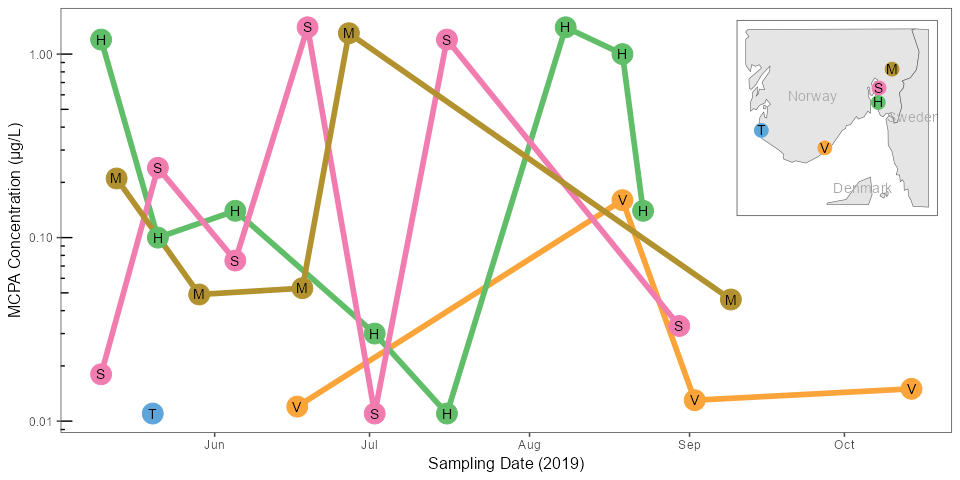
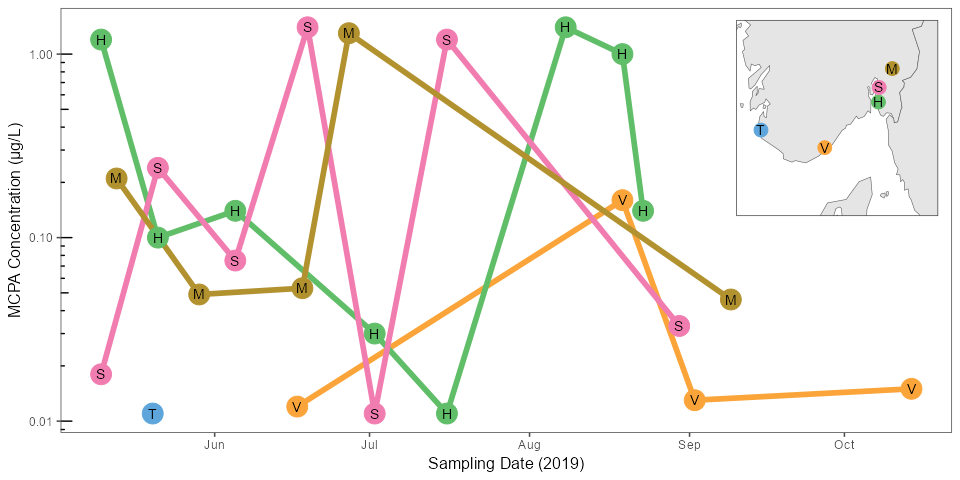
Commit of final draft.

diff --git a/README.md b/README.md
@@ -57,12 +57,8 @@ object for compatibility with `sf`’s GIS functions.
 <summary>Show code</summary>
 
 ``` r
-# Get a map of Europe and crop it to Norway
-gisco_Europe <- gisco_get_countries(epsg = 4326, region = "Europe") |> 
-      st_crop(xmin = 5, xmax = 13, ymin = 57, ymax = 61) 
-
-gisco_Europe_zoom <- gisco_get_countries(epsg = 4326, region = "Europe") |> 
-      st_crop(xmin = 5, xmax = 12, ymin = 50, ymax = 70) 
+# Get a map of Europe
+gisco_Europe <- gisco_get_countries(epsg = 4326, region = "Europe") 
 
 sites_sf <- st_as_sf(sites, coords = c("LONGITUDE", "LATITUDE"), crs = 4326) |> 
   select(-COORDINATE_SYSTEM, -SITE_CODE)
@@ -90,36 +86,12 @@ plot_a0 <- ggplot(gisco_Europe) +
       geom_sf(data = sites_sf, aes(size = 6, colour = SITE_NAME)) +
   geom_sf_text(data = sites_sf, aes(label = c("T", "V", "H", "S", "M"))) +
   theme(legend.position = "none", axis.title = element_blank(), axis.ticks = element_blank(), axis.text = element_blank()) +
-      scale_color_few()
+      scale_color_few() +
+  coord_sf(xlim = c(5, 13), ylim = c(57, 61))
 
-# Spatial Variation
-
-plot_a1 <- mcpa_exposure %>% 
-  ggplot(mapping = aes(x = SITE_NAME, y = MEASURED_VALUE, colour = SITE_NAME)) +
-  geom_boxplot() +
-    scale_y_log10() +
-  scale_color_few() +
-  labs(x = "Sampling Site",
-       y = "Measured Concentration (μg/L)",
-       colour = "Sampling Site",
-       shape = "Sampling Site")
-
-# Temporal Variation
-
-plot_a2 <- mcpa_exposure %>% 
-  ggplot(mapping = aes(x = SAMPLE_DATE, y = MEASURED_VALUE, group = floor_date(SAMPLE_DATE, unit = "months"))) +
-  geom_boxplot() +
-    scale_y_log10() +
-  labs(x = "Sampling Date",
-       y = "Measured Concentration (μg/L)",
-       colour = "Sampling Site",
-       shape = "Sampling Site")
-
-# Spatio-Temporal Variation
-
-plot_a3 <- mcpa_exposure %>%
+plot_a1 <- mcpa_exposure %>%
   ggplot(mapping = aes(x = SAMPLE_DATE, y = MEASURED_VALUE, colour = SITE_NAME)) +
-  geom_line(size = 2) +
+  geom_line(size = 1.2) +
   geom_point(size = 7) +
   geom_text(aes(label = SITE_NAME |> substr(start = 1, stop = 1)), colour = "black") +
   scale_y_log10() +
@@ -133,31 +105,27 @@ plot_a3 <- mcpa_exposure %>%
   theme(legend.position = "none") +
    annotation_logticks(sides = "l")
 
-# task_a_plot <- plot_grid(plot_a3, plot_a0,
-#           ncol = 2, rel_widths = c(3, 1))
-```
-
-</details>
-<details class="code-fold">
-<summary>Show code</summary>
-
-``` r
-task_a_plot <- ggdraw(plot = plot_a3) +
+task_a_plot <- ggdraw(plot = plot_a1) +
   draw_plot(plot_a0, x = 0.77, y = 0.6, width = 0.2, height = 0.3, scale = 1.5)
 task_a_plot
 ```
 
 </details>
 
-![](README_files/figure-commonmark/task_a_plot-1.png)
+![](README_files/figure-commonmark/task_a-1.png)
+
+Figure 1: Line graph/scatter plot of measured concentrations of
+2-methyl-4-chlorophenoxyacetic acid (MCPA) in 5 freshwater sampling
+sites in Norway, between May 5th and October 14th, 2019. Each point
+represents a single sample. Inset map shows locations of sampling sites
+(T)imebekken, (V)asshaglona, (H)eiabekken, (S)kuterudbekken, and
+(M)ørdrebekken.
 
 ## Task B: Predict tissue concentrations of chemicals in fish
 
-Any outliers?
-
-How to calculate some of these :(?
-
-Also how to make nice tables in quarto?
+Summary statistics (mean, standard deviation, maximum, minimum, and
+5th/95th percentiles) were calculated for each combination of site and
+stressor across the sampling period.
 
 <details class="code-fold">
 <summary>Show code</summary>
@@ -189,13 +157,12 @@ all_data %>%
 
 # Make a table using knitr
 task_b_table <- knitr::kable(all_data_summary, digits = 2,
-             col.names = c("Site", "Stressor", "n", "Mean ± SD", "Min.", "Max.", "5th Percentile", "95th Percentile"),
-              caption = "Table of mean, standard deviation, maximum, minimum and percentile values of measured concentrations of 48 chemical stressors across 6 freshwater sampling sites in Norway, May 6th to October 28th 2019. *: <i>n</i> too small to calculate standard deviation. All values in μg/L, rounded to 2 d.p.")
+             col.names = c("Site", "Stressor", "n", "Mean ± SD", "Min.", "Max.", "5th Percentile", "95th Percentile"))
 ```
 
 </details>
 <details>
-<summary>Show Table 1: Summary Statistics of Stressor Concentrations</summary>
+<summary>Show Table 1: Summary statistics of measured stressor concentrations in water</summary>
 
 | Site           | Stressor                                               |   n | Mean ± SD   | Min. | Max. | 5th Percentile | 95th Percentile |
 |:---------------|:-------------------------------------------------------|----:|:------------|-----:|-----:|---------------:|----------------:|
@@ -268,13 +235,26 @@ task_b_table <- knitr::kable(all_data_summary, digits = 2,
 | Mørdrebekken   | prothioconazole-desthio                                |   4 | 0.03 ± 0.04 | 0.09 | 0.01 |           0.01 |            0.08 |
 | Mørdrebekken   | thiabendazole                                          |   1 | 0.04\*      | 0.04 | 0.04 |           0.04 |            0.04 |
 
-Table of mean, standard deviation, maximum, minimum and percentile
-values of measured concentrations of 48 chemical stressors across 6
-freshwater sampling sites in Norway, May 6th to October 28th 2019. \*:
-<i>n</i> too small to calculate standard deviation. All values in μg/L,
-rounded to 2 d.p.
-
 </details>
+
+Table 1: Table of mean, standard deviation, maximum, minimum and
+percentile values of measured concentrations of 48 chemical stressors
+across 6 freshwater sampling sites in Norway, May 6th to October 28th
+2019. \*: <i>n</i> too small to calculate standard deviation. All values
+in μg/L, rounded to 2 d.p.
+
+Tissue concentrations of stressors in fish were calculated as follows.
+First, the R package `webchem` was used to assign PubChem IDs to the
+stressors based on InChIKeys. These IDs were subsequently used to look
+up LogKOW (a.k.a XLogP) values on PubChem, which were available as
+predicted values for 39 substances, but not for spinosad. These values
+were then used to predict tissue concentrations following the equation:
+
+$$C_f = C_w \times 10^{0.76 \times logP - 0.23}$$
+
+Tissue concentration data is subsequently saved to
+`/data/Cf_summary_table.csv` and displayed below.
+
 <details class="code-fold">
 <summary>Show code</summary>
 
@@ -313,13 +293,14 @@ Cf_summary <- Cf_all_stressors |>
 
 # Make a pretty table using knitr
 Cf_summary_table <- knitr::kable(Cf_summary, digits = 2,
-             col.names = c("Stressor", "Heiabekken", "Mørdrebekken", "Skuterudbekken", "Timebekken", "Vasshaglona"),
-              caption = "Table of mean and standard deviation of measured concentrations of 48 chemical stressors across 6 freshwater sampling sites in Norway, May 6th to October 28th 2019. *: n too small to calculate standard deviation. All values in μg/L.")
+             col.names = c("Stressor", "Heiabekken", "Mørdrebekken", "Skuterudbekken", "Timebekken", "Vasshaglona"))
+
+write_csv(x = Cf_summary, file = "data/Cf_summary_table.csv")
 ```
 
 </details>
 <details>
-<summary>Show Table 2: Cf_summary_table</summary>
+<summary>Show Table 1: Summary statistics of predicted stressor concentrations in fish tissue</summary>
 
 | Stressor                                               | Heiabekken  | Mørdrebekken | Skuterudbekken | Timebekken  | Vasshaglona |
 |:-------------------------------------------------------|:------------|:-------------|:---------------|:------------|:------------|
@@ -364,14 +345,22 @@ Cf_summary_table <- knitr::kable(Cf_summary, digits = 2,
 | pinoxaden                                              | \-          | \-           | \-             | \-          | 0.03\*      |
 | thiabendazole                                          | \-          | \-           | \-             | \-          | 0.04\*      |
 
-Table of mean and standard deviation of measured concentrations of 48
-chemical stressors across 6 freshwater sampling sites in Norway, May 6th
-to October 28th 2019. \*: n too small to calculate standard deviation.
-All values in μg/L.
-
 </details>
 
+Table 2: Table of mean and standard deviation of predicted
+concentrations in fish tissues of 39 chemical stressors across 6
+freshwater sampling sites in Norway, May 6th to October 28th 2019. \*: n
+too small to calculate standard deviation. All values in μg/kg,
+calculated from measured water concentrations and predicted LogKOW,
+following the equation $C_f = C_w \times 10^{0.76 \times logP - 0.23}$.
+
 ## Task C: Visualize the values of Cw and Cf on a map
+
+A purely map-based approach to this task was considered. However, given
+the number of stressors assessed, and the inability (with available
+data) of determining which concentrations were most environmentally
+relevant, it was decided that box plots with an accompanying map of
+sampling sites was a more appropriate approach.
 
 <details class="code-fold">
 <summary>Show code</summary>
@@ -382,67 +371,68 @@ task_c_data <- Cf_all_stressors |>
   left_join(all_stressors, by = "STRESSOR_NAME") |>
   pivot_longer(cols = c(MEASURED_VALUE, FISH_CONC_uGKG), names_to = "Media", values_to = "Stressor_ug") |>
   mutate(Media = case_when(
-    Media == "MEASURED_VALUE" ~ "Water",
-    TRUE ~ "Fish"
-  ) |> factor(levels = c("Water", "Fish"))
+    Media == "MEASURED_VALUE" ~ "Water (μg/L)",
+    TRUE ~ "Fish (μg/kg)"
+  ) |> factor(levels = c("Water (μg/L)", "Fish (μg/kg)"))
   )
 
 task_c_map <-
-  ggplot(gisco_Europe_zoom) +
+  ggplot(data = gisco_Europe) +
   geom_sf() +
   geom_sf(data = sites_sf) +
   geom_sf_text(aes(label = NAME_ENGL), colour = "darkgrey") +
-  geom_sf(data = sites_sf, aes(size = 5, colour = SITE_NAME)) +
+  geom_sf(data = sites_sf, aes(size = 7, colour = SITE_NAME)) +
   geom_sf_text(data = sites_sf, aes(label = c("T", "V", "H", "S", "M"))) +
-  theme(legend.position = "none", axis.title = element_blank(), axis.ticks = element_blank(), axis.text = element_blank(), plot.margin = unit(c(0,0,0,0), "cm")) +
+  theme(legend.position = "none", axis.title = element_blank(), axis.ticks = element_blank(), axis.text = element_blank()) +
+  coord_sf(xlim = c(5, 12), ylim = c(58, 64)) +
       scale_color_few()
 
-task_c_plot_list <- vector("list", 10)
-n <- 0
+task_c_worldmap <- ggplot(data = gisco_countries) +
+  geom_sf() +
+  geom_rect(aes(xmin = 5, xmax = 12, ymin = 58, ymax = 64), color = "red", fill = NA) +
+    coord_sf(expand = FALSE) +
+    theme(axis.text = element_blank(), axis.ticks = element_blank())
 
-
-for (site in sites$SITE_NAME) {
-  for (medium in c("Water", "Fish")) {
-    n <- n + 1
-    temp_data <- task_c_data |> filter(Media == medium)
-    temp_plot <- temp_data |>
-      filter(SITE_NAME == site) |>
-      ggplot(aes(x = Stressor_ug, y = STRESSOR_ACRONYM)) +
-      geom_boxplot() +
-      scale_x_log10() +
-      labs(
-        x = "Measured Concentration (μg/L)",
-        y = "Stressor (Abbreviated)",
-        title = paste0(site, " (", medium, ")")
-      ) +
-      annotation_logticks(sides = "b") +
-      theme(axis.title = element_blank())
-    task_c_plot_list[[n]] <- temp_plot
-  }
-}
-
-#try facets instead
 task_c_boxplots <- ggplot(data = task_c_data, mapping = aes(x = Stressor_ug, y = STRESSOR_ACRONYM, fill = SITE_NAME)) +
       geom_boxplot() +
       scale_x_log10() +
   scale_fill_few() +
       labs(
-        x = "Measured Concentration (μg/L)",
+        x = "Measured Concentration",
         y = "Stressor (Abbreviated)") +
       annotation_logticks(sides = "b") +
-      theme(axis.title = element_blank(),
-            legend.position = "none") +
-  facet_grid(SITE_NAME ~ Media, scales = "free", space = "free", drop = TRUE)
+      theme(legend.position = "none") +
+  facet_grid(SITE_NAME ~ Media, scales = "free", space = "free", drop = TRUE, switch = "y") +
+  theme(plot.margin = unit(c(0, 5, 0, 0), "cm"))
 
-# y.grob <- textGrob("Stressor", 
-#                    gp=gpar(fontface="bold", fontsize=15), rot=90)
-# 
-# x.grob <- textGrob("Concentration (μg/L)", 
-#                    gp=gpar(fontface="bold", fontsize=15))
+task_c_plot <- ggdraw(plot = task_c_boxplots) +
+  draw_plot(task_c_map, x = 0.82, y = 0.715, width = 0.17, height = 0.3, scale = 1) +
+    draw_plot(task_c_worldmap, x = 0.82, y = 0.55, width = 0.17, height = 0.3, scale = 1)
 
-plot_grid(task_c_boxplots, task_c_map, ncol = 2, nrow = 1, rel_width = c(10000, 1))
+task_c_plot
 ```
 
 </details>
 
-![](README_files/figure-commonmark/task_c-1.png)
+![Speed and Stopping Distances of
+Cars](README_files/figure-commonmark/task_c-1.png)
+
+Figure 2: Box plot of concentrations, in water (measured, μg/L) and fish
+tissue (predicted from water and LogKow, μg/kg), for 40 chemical
+stressors sampled April - October 2019 across 5 freshwater sites in
+southern Norway. Inset map shows locations of (T)imebekken,
+(V)asshaglona, (H)eiabekken, (S)kuterudbekken, and (M)ørdrebekken, as
+well as rough area of the world. Acronyms: p,p’-DDE:
+1,1’-(2,2-Dichloro-1,1-ethenediyl)bis(4-chlorobenzene), BAM:
+2,6-dichlorobenzamide (BAM), MCPA: 2-methyl-4-chlorophenoxyacetic acid
+(MCPA), ACNF: aclonifen, AXSB: azoxystrobin, BTZN: bentazone, BXFN:
+bixafen, BSCL: boscalid, CBDZ: carbendazim, CFVP: chlorfenvinphos, CLMZ:
+clomazone, CPRL: clopyralid, CZFM: cyazofamid, CPDN: cyprodinil, DCHP:
+dichlorprop, DFNC: diflufenican, FNMD: fenamidone, FPPM: fenpropimorph,
+FLSL: florasulam, FDXN: fludioxonil, FLXP: fluroxypyr, IMDC:
+imidacloprid, MDPM: mandipropamid, MCPP: mecoprop, MTLX: metalaxyl,
+MTMT: metamitron, METZ: metribuzin, PCCR: pencycuron, PNXD: pinoxaden,
+PPMC: propamocarb, PCAZ: propiconazole, PPCZ: propoxycarbazone, PCZ-D:
+prothioconazole-desthio, PCSB: pyraclostrobin, PRDF: pyridafol, PRSL:
+pyroxsulam, SPNS: spinosad, TBDZ: thiabendazole, THCP: thiacloprid,
+TOSB: trifloxystrobin.
